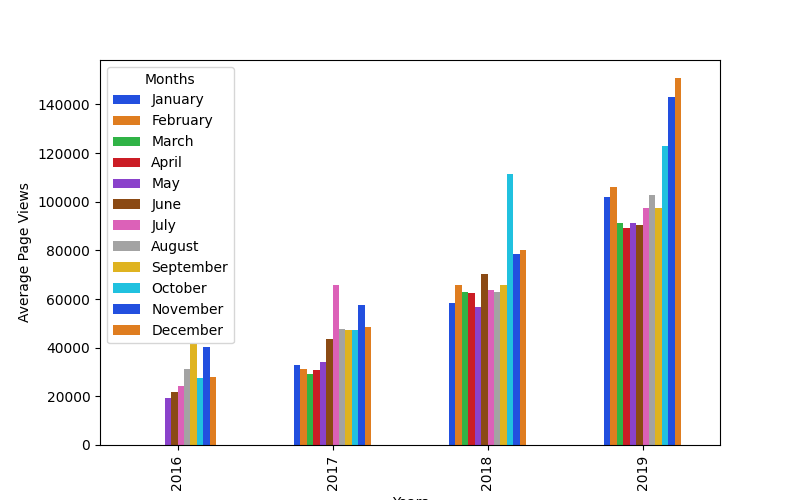
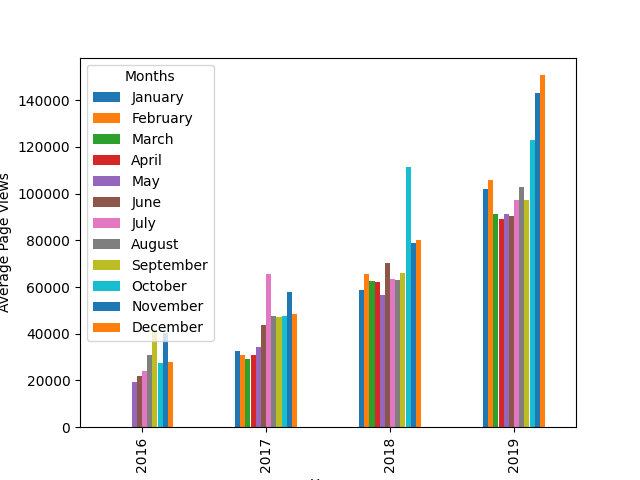
Completed

Changed region(s): [[0.0, 0.0938, 0.9062, 1.0], [0.0312, 0.7812, 0.125, 0.8125]]

diff --git a/time_series_visualizer.py b/time_series_visualizer.py
@@ -33,14 +33,11 @@ def draw_bar_plot():
     months = ['January', 'February', 'March', 'April', 'May', 'June', 'July', 'August', 'September', 'October', 'November', 'December']
 
     # Draw bar plot
-    fig, ax = plt.subplots(figsize=(8, 5))
-    sns.barplot(data=df_bar, x='year', hue='month', y='value', palette='bright', width=0.5)
-
-    handles, _ = ax.get_legend_handles_labels()
-    ax.legend(handles, months, title='Months')
-    plt.xlabel('Years')
-    plt.xticks(rotation=90)
-    plt.ylabel('Average Page Views')
+    fig, ax = plt.subplots()
+    df_bar.unstack().plot(kind='bar', ax=ax)
+    ax.legend(months, title='Months')
+    ax.set_xlabel('Years')
+    ax.set_ylabel('Average Page Views')
 
     # Save image and return fig (don't change this part)
     fig.savefig('bar_plot.png')
@@ -60,7 +57,8 @@ def draw_box_plot():
     sns.set_palette("bright")
     sns.boxplot(ax=axes[0], data=df_box, x='year', y='value', hue='year', flierprops={"marker": "|"}, legend=False)
     sns.boxplot(ax=axes[1], data=df_box, x='month', y='value', hue='month', flierprops={"marker": "|"}, legend=False, order=order)
-
+    axes[0].set(xlabel='Year', ylabel='Page Views', title='Year-wise Box Plot (Trend)')
+    axes[1].set(xlabel='Month', ylabel='Page Views', title='Month-wise Box Plot (Seasonality)')
 
 
 
